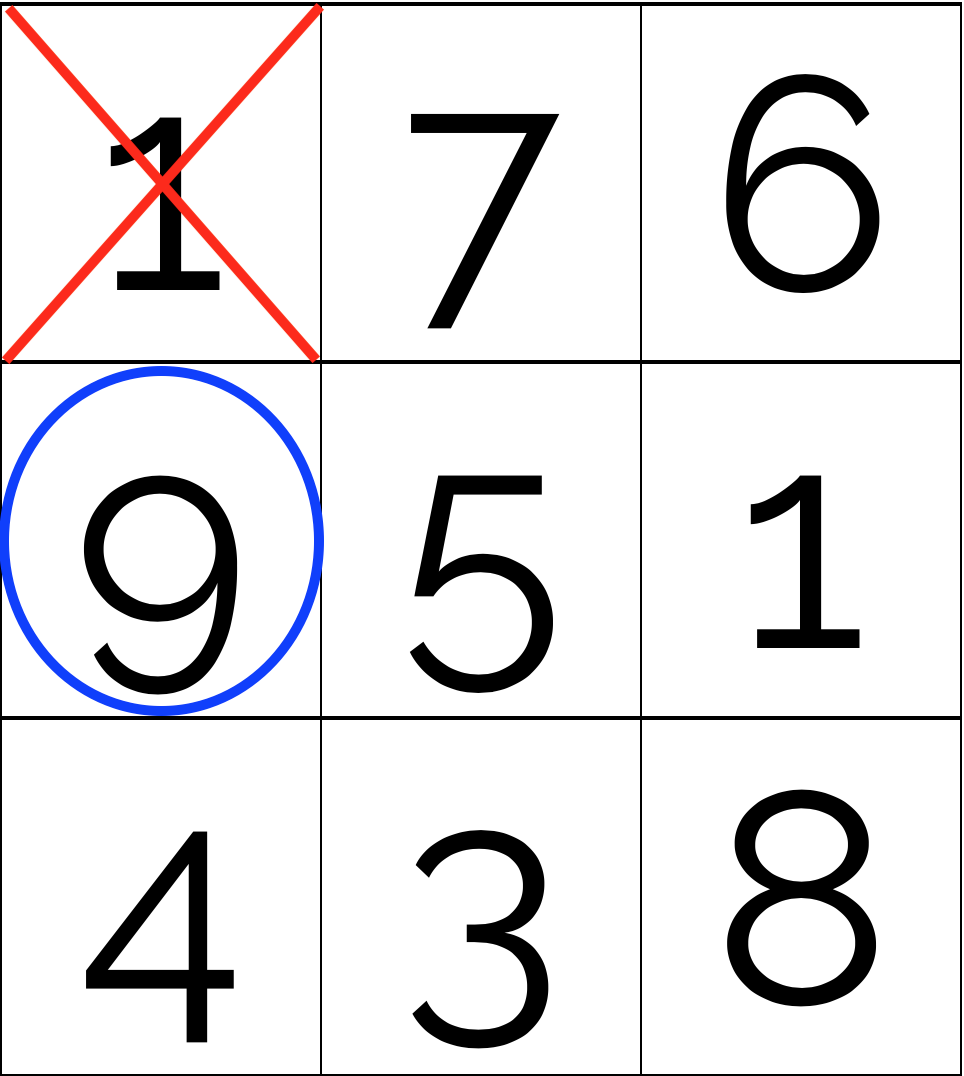
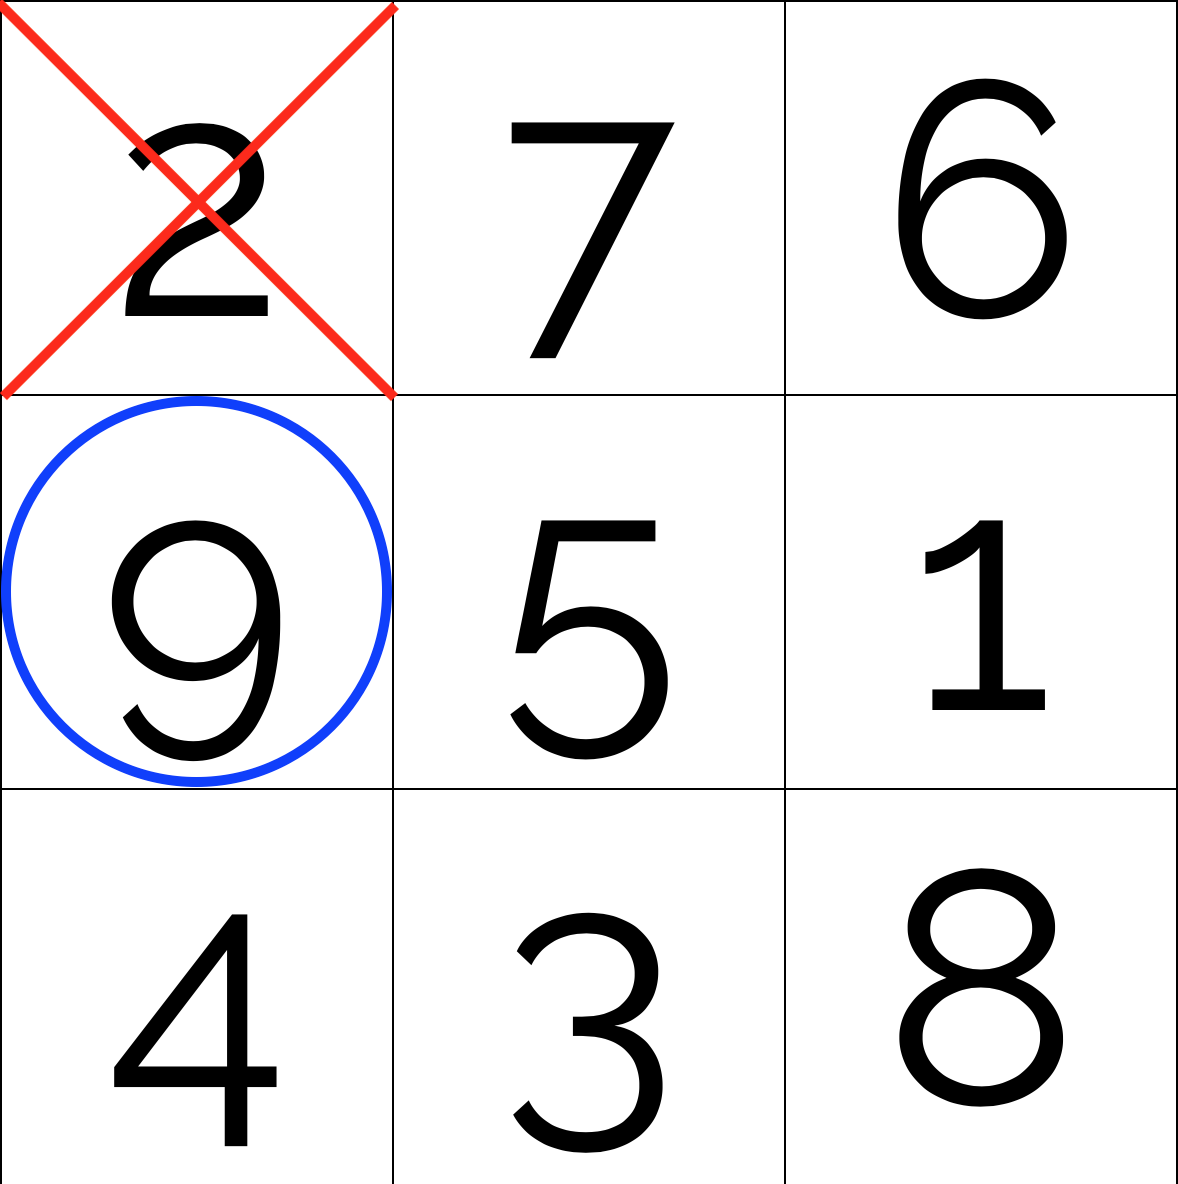
cambios

diff --git a/filosofoporundia.html b/filosofoporundia.html
@@ -152,7 +152,9 @@ Repensar: los cinco sentidos
     </section>    
     
 <section>Vamos a re-pensar el juego</section>    
-    
+    <section data-background-color="white"  data-background-image ="img/triqui0.png" data-background-size = "contain">    
+</section>    
+
 <section data-background-color="white"  data-background-image ="img/triqui.png" data-background-size = "contain">    
 </section>    
 <section data-background-color="white"  data-background-image ="img/triqui2.png" data-background-size = "contain">    
@@ -163,7 +165,9 @@ Repensar: los cinco sentidos
 </section>    
 <section data-background-color="white"  data-background-image ="img/triqui5.png" data-background-size = "contain">    
 </section>    
-<section data-background-color="white"  data-background-image ="img/triqui6.png" data-background-size = "contain">    
+<section data-background-color="white"  data-background-image ="img/triqui6.png" data-background-size = "contain">
+    
+<p class="fragment highlightred">¿Qué número debería seleccionar el primer jugador para ganar? ¿Qué número debería seleccionar el segundo jugador para ganar?</p>    
 </section>    
 
 <section>¿Qué pasó?</section>    
